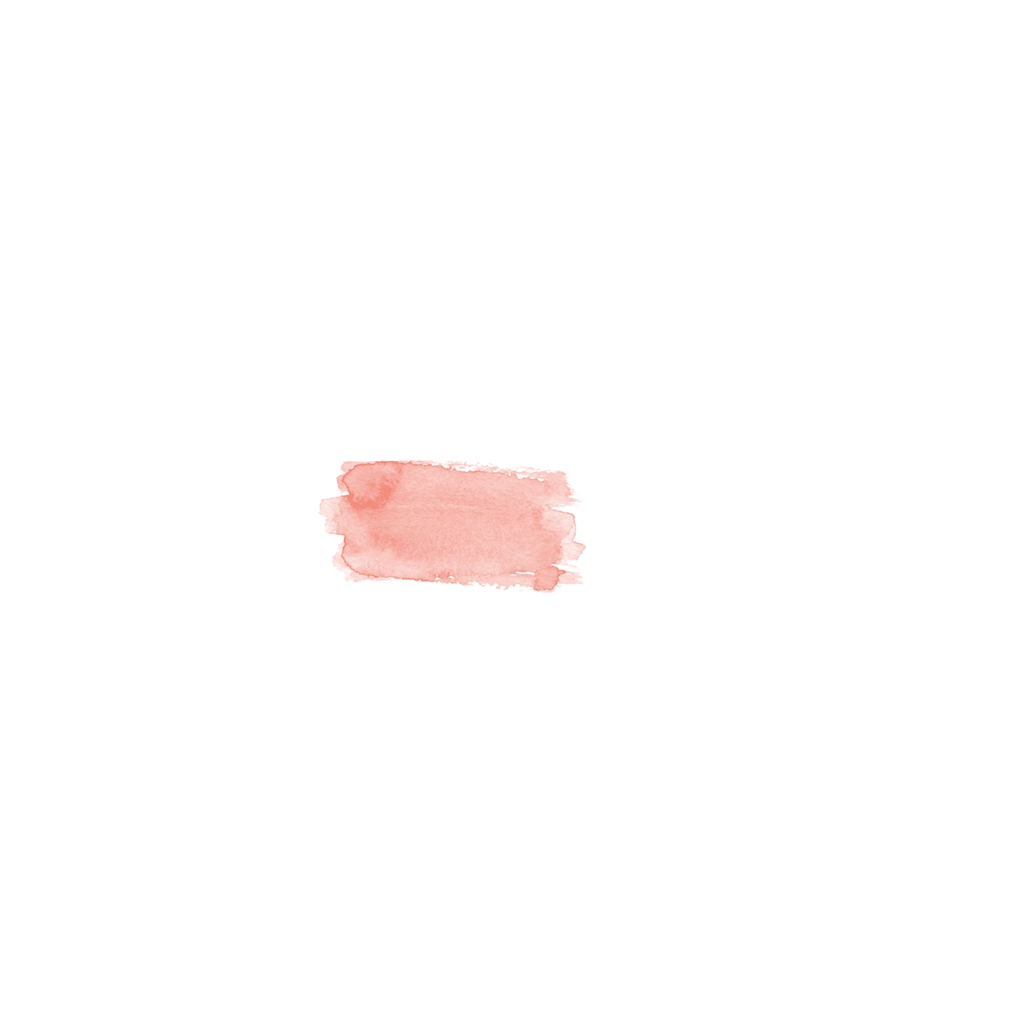
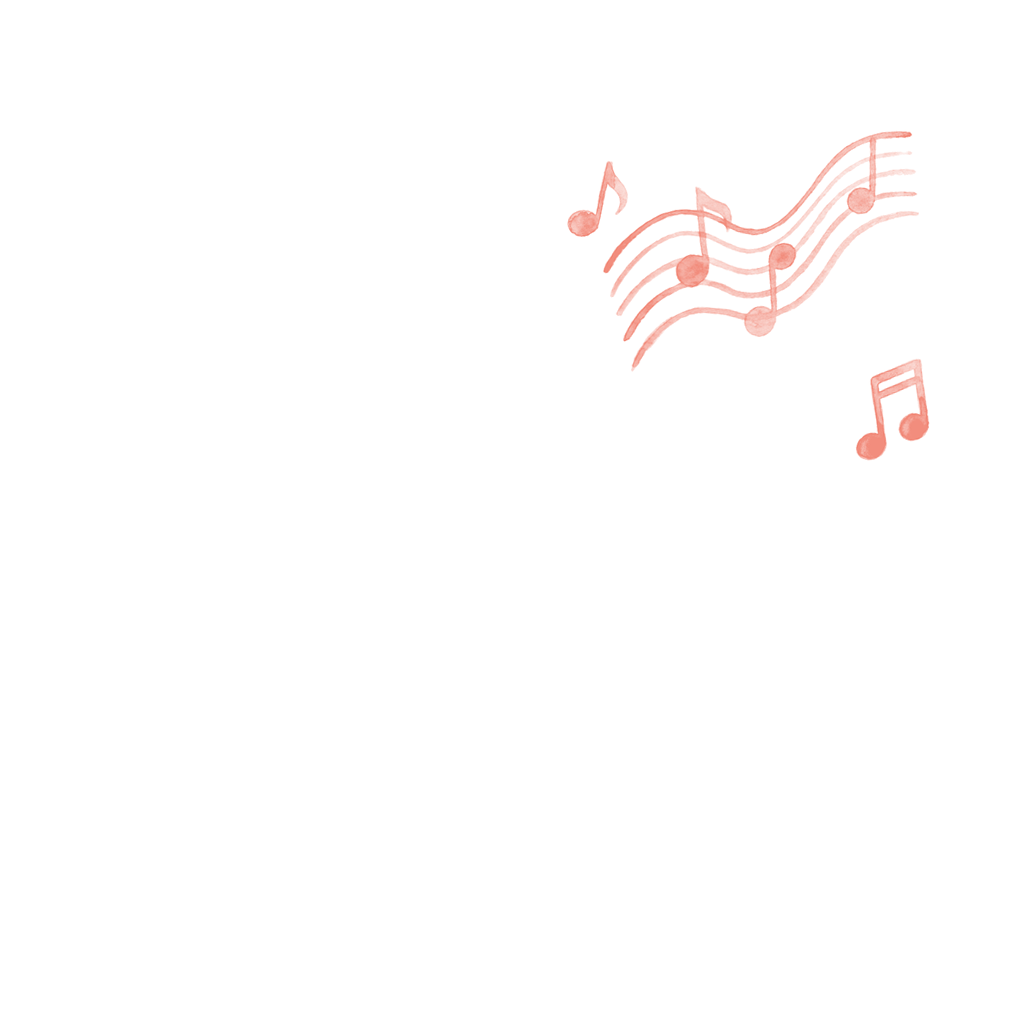
Coloring as staging: background, object or painted motifs
color.py now offers three moves: a background patch for depth, a patch behind
the one object that carries the idea, and painted motifs (music staff, notes,
star, heart, sparkle, dots) cut from a generated sheet. The rest of the
subject always stays paper. The style spec explains how to choose.

Changed region(s): [[0.5625, 0.125, 0.9062, 0.3438], [0.3125, 0.4375, 0.5938, 0.5938], [0.8438, 0.3438, 0.9062, 0.4688]]

diff --git a/scripts/color.py b/scripts/color.py
@@ -1,19 +1,27 @@
-"""Place real coral watercolor patches behind chosen regions of an ink drawing.
+"""Add real painted watercolor to an accepted ink drawing.
 
 usage:
   python3 -I scripts/color.py DIR --list
-      writes DIR/regions.png: every closed region of the drawing with a number
-  python3 -I scripts/color.py DIR --regions 6,7+8 [--patch wide] [--seed 1] [--close 9]
-      writes DIR/color-wash.png (the watercolor layer), DIR/version-color.jpg
-      (paper + watercolor + ink) and DIR/version-ink.jpg (paper + ink only)
+      writes DIR/regions.png: every closed region of the drawing, numbered
+  python3 -I scripts/color.py DIR [--background] [--regions 6,7+8] [--add "staff@700,260,330,-10;note@860,330,90"]
+      writes DIR/color-wash.png, DIR/version-color.jpg and DIR/version-ink.jpg
 
-DIR holds layer-ink.png (from layers.py). Regions joined by + get one patch
-together. The watercolor is never painted by code: a real painted patch from
-library/_washes (scripts/washes.py) is chosen by shape, scaled a little larger
-than the region, tilted and offset, and placed behind the ink. A region is a connected area of paper
-enclosed by ink; gaps narrower than --close (in half-size pixels) are closed
-first, because hand-drawn contours are often open.
+Three ways to color, chosen per drawing (references/style.md, section 8):
+  --background   one large painted patch behind the whole subject, for depth
+  --regions      a painted patch behind one object (regions joined by + share one)
+  --add          painted motifs that tell the action, kind@x,y,width[,degrees];
+                 kinds are the "kind" fields in library/_motifs/*.json
+
+The watercolor never crosses the rest of the subject: every part of the drawing
+other than the chosen regions stays paper, so people, coins or books in front
+read white, while the patch may overflow into the empty background. Motifs are
+placed on top of that rule, where you put them.
+
+Nothing here paints: every patch and motif is a real painted swatch from a
+generated sheet (scripts/washes.py). A region is a connected area of paper
+enclosed by ink, after closing gaps narrower than --close half-size pixels.
 """
+import glob
 import json
 import sys
 
@@ -22,60 +30,70 @@ from PIL import Image, ImageDraw, ImageFilter, ImageFont
 
 PAPER = (244, 242, 236)
 CORAL = (240, 128, 110)
+ROOT = __file__.rsplit("/scripts/", 1)[0]
 
 
 def opt(name, default=None):
-    if name in sys.argv:
-        return sys.argv[sys.argv.index(name) + 1]
-    return default
+    return sys.argv[sys.argv.index(name) + 1] if name in sys.argv else default
 
 
 def label(free):
     h, w = free.shape
     lab = np.zeros((h, w), np.int32)
     sizes = [0]
-    current = 0
+    n = 0
     for y0 in range(0, h, 2):
         for x0 in range(0, w, 2):
             if not free[y0, x0] or lab[y0, x0]:
                 continue
-            current += 1
+            n += 1
             stack = [(y0, x0)]
-            lab[y0, x0] = current
-            n = 0
+            lab[y0, x0] = n
+            count = 0
             while stack:
                 y, x = stack.pop()
-                n += 1
+                count += 1
                 for ny, nx in ((y + 1, x), (y - 1, x), (y, x + 1), (y, x - 1)):
                     if 0 <= ny < h and 0 <= nx < w and free[ny, nx] and not lab[ny, nx]:
-                        lab[ny, nx] = current
+                        lab[ny, nx] = n
                         stack.append((ny, nx))
-            sizes.append(n)
+            sizes.append(count)
     return lab, sizes
 
 
-def blur(a, r):
-    img = Image.fromarray((np.clip(a, 0, 1) * 255).astype(np.uint8))
-    return np.asarray(img.filter(ImageFilter.GaussianBlur(r))).astype(np.float32) / 255
+def grow(mask, size):
+    img = Image.fromarray((mask > 0).astype(np.uint8) * 255)
+    return np.asarray(img.filter(ImageFilter.MaxFilter(size | 1))) > 0
 
 
-def noise(shape, scale, rng):
-    h, w = shape
-    small = rng.random((max(2, h // scale), max(2, w // scale))).astype(np.float32)
-    img = Image.fromarray((small * 255).astype(np.uint8)).resize((w, h), Image.BICUBIC)
+def up(mask, size):
+    img = Image.fromarray((mask > 0).astype(np.uint8) * 255).resize(size, Image.BILINEAR)
     return np.asarray(img).astype(np.float32) / 255
 
 
-def regions_of(ink_alpha, close):
-    small = ink_alpha[::2, ::2]
-    if close > 1:
-        img = Image.fromarray((np.clip(small, 0, 1) * 255).astype(np.uint8))
-        small = np.asarray(img.filter(ImageFilter.MaxFilter(close | 1))).astype(np.float32) / 255
-    free = small < 0.25
-    lab, sizes = label(free)
-    border = set(np.unique(np.concatenate([lab[0], lab[-1], lab[:, 0], lab[:, -1]])))
-    keep = [i for i in range(1, len(sizes)) if i not in border and sizes[i] > 150]
-    return lab, keep
+def load(kind_dir):
+    out = []
+    for f in sorted(glob.glob(f"{ROOT}/library/{kind_dir}/patch-*.png")):
+        out.append((f, json.load(open(f[:-4] + ".json"))))
+    return out
+
+
+def stamp(canvas, path, cx, cy, tw, th, degrees):
+    patch = Image.open(path).resize((max(8, int(tw)), max(8, int(th))), Image.LANCZOS)
+    patch = patch.rotate(degrees, expand=True, resample=Image.BICUBIC)
+    pa = np.asarray(patch).astype(np.float32)[..., 3] / 255
+    H, W = canvas.shape
+    px, py = int(cx - pa.shape[1] / 2), int(cy - pa.shape[0] / 2)
+    sx, sy = max(0, -px), max(0, -py)
+    x0, y0, x1, y1 = max(0, px), max(0, py), min(W, px + pa.shape[1]), min(H, py + pa.shape[0])
+    if x1 > x0 and y1 > y0:
+        piece = pa[sy:sy + y1 - y0, sx:sx + x1 - x0]
+        canvas[y0:y1, x0:x1] = 1 - (1 - canvas[y0:y1, x0:x1]) * (1 - piece)
+
+
+def pick(pool, aspect, rng):
+    pool = sorted(pool, key=lambda p: abs(np.log(p[1]["aspect"] / aspect)))
+    return pool[min(len(pool) - 1, int(rng.integers(0, 2)))]
 
 
 def main():
@@ -84,18 +102,23 @@ def main():
         sys.exit(2)
     d = sys.argv[1].rstrip("/")
     ink_img = Image.open(f"{d}/layer-ink.png")
+    W, H = ink_img.size
     ink = np.asarray(ink_img).astype(np.float32)[..., 3] / 255
     close = int(opt("--close", "9"))
-    lab, keep = regions_of(ink, close)
-    grow = close
+    small = ink[::2, ::2]
+    closed = grow(small > 0.25, close) if close > 1 else small > 0.25
+    lab, sizes = label(~closed)
+    border = set(np.unique(np.concatenate([lab[0], lab[-1], lab[:, 0], lab[:, -1]]))) - {0}
+    keep = [i for i in range(1, len(sizes)) if i not in border and sizes[i] > 150]
+
     if "--list" in sys.argv:
-        base = Image.new("RGB", ink_img.size, PAPER)
+        base = Image.new("RGB", (W, H), PAPER)
         base.paste(ink_img, (0, 0), ink_img)
         tint = np.zeros(lab.shape + (4,), np.uint8)
         rng = np.random.default_rng(3)
         for i in keep:
             tint[lab == i] = (*rng.integers(80, 230, 3), 90)
-        over = Image.fromarray(tint, "RGBA").resize(ink_img.size, Image.NEAREST)
+        over = Image.fromarray(tint, "RGBA").resize((W, H), Image.NEAREST)
         base.paste(over, (0, 0), over)
         draw = ImageDraw.Draw(base)
         try:
@@ -104,68 +127,75 @@ def main():
             font = ImageFont.load_default()
         for i in keep:
             ys, xs = np.nonzero(lab == i)
-            cy, cx = int(np.median(ys)) * 2, int(np.median(xs)) * 2
-            draw.text((cx - 10, cy - 14), str(i), fill=(200, 0, 0), font=font)
+            draw.text((int(np.median(xs)) * 2 - 10, int(np.median(ys)) * 2 - 14), str(i), fill=(200, 0, 0), font=font)
         base.save(f"{d}/regions.png")
         print(f"{d}/regions.png: {len(keep)} regions")
         return
-    groups = [[int(v) for v in g.split("+")] for g in opt("--regions", "").split(",") if g]
-    chosen = [i for g in groups for i in g]
-    forced = opt("--patch")
+
     rng = np.random.default_rng(int(opt("--seed", "1")))
-    root = __file__.rsplit("/scripts/", 1)[0]
-    import glob
-    patches = []
-    for f in sorted(glob.glob(f"{root}/library/_washes/patch-*.png")):
-        meta = json.load(open(f[:-4] + ".json"))
-        patches.append((f, meta))
-    if not patches:
-        print("no watercolor patches in library/_washes: run scripts/washes.py on a generated swatch sheet first")
-        sys.exit(1)
-    W, H = ink_img.size
-    wash = np.zeros((H, W), np.float32)
+    washes = [p for p in load("_washes") if p[1].get("kind") not in ("heart", "splash")]
+    motifs = load("_motifs")
+    subject = ~np.isin(lab, list(border))
+    alpha = np.zeros((H, W), np.float32)
+    allowed = np.zeros(lab.shape, bool)
+    notes = []
+
+    if "--background" in sys.argv:
+        ys, xs = np.nonzero(subject)
+        x0, x1, y0, y1 = xs.min() * 2, xs.max() * 2, ys.min() * 2, ys.max() * 2
+        bw, bh = (x1 - x0) * 0.95, (y1 - y0) * 0.8
+        f, meta = pick(washes, bw / bh, rng)
+        cx = (x0 + x1) / 2 + (rng.random() - 0.5) * 0.1 * bw
+        cy = (y0 + y1) / 2 - 0.04 * bh
+        stamp(alpha, f, cx, cy, bw, bh, float((rng.random() - 0.5) * 8))
+        notes.append(f"background: {meta['kind']} patch")
+
+    groups = [[int(v) for v in g.split("+")] for g in (opt("--regions") or "").split(",") if g]
     for g in groups:
-        ys, xs = np.nonzero(np.isin(lab, g))
+        region = np.isin(lab, g)
+        allowed |= grow(region, close)
+        ys, xs = np.nonzero(region)
         x0, x1, y0, y1 = xs.min() * 2, xs.max() * 2, ys.min() * 2, ys.max() * 2
         bw, bh = x1 - x0, y1 - y0
-        aspect = bw / max(1, bh)
-        pool = [p for p in patches if p[1].get("kind") not in ("heart", "splash")]
-        if forced:
-            pool = [p for p in patches if p[1].get("kind") == forced or p[0].endswith(f"patch-{forced.zfill(2)}.png")]
-        pool.sort(key=lambda p: abs(np.log(p[1]["aspect"] / aspect)))
-        f, meta = pool[min(len(pool) - 1, int(rng.integers(0, 2)))]
+        f, meta = pick(washes, bw / max(1, bh), rng)
         over = 1.12 + rng.random() * 0.12
-        tw, th = int(bw * over), int(bh * over)
-        patch = Image.open(f).resize((max(8, tw), max(8, th)), Image.LANCZOS).rotate(float((rng.random() - 0.5) * 10), expand=True, resample=Image.BICUBIC)
-        pa = np.asarray(patch).astype(np.float32)[..., 3] / 255
-        cx = (x0 + x1) / 2 + (rng.random() - 0.5) * 0.12 * bw
-        cy = (y0 + y1) / 2 + (rng.random() - 0.5) * 0.12 * bh
-        px, py = int(cx - pa.shape[1] / 2), int(cy - pa.shape[0] / 2)
-        sx0, sy0 = max(0, -px), max(0, -py)
-        dx0, dy0 = max(0, px), max(0, py)
-        dx1, dy1 = min(W, px + pa.shape[1]), min(H, py + pa.shape[0])
-        if dx1 <= dx0 or dy1 <= dy0:
-            continue
-        piece = pa[sy0:sy0 + dy1 - dy0, sx0:sx0 + dx1 - dx0]
-        region = wash[dy0:dy1, dx0:dx1]
-        wash[dy0:dy1, dx0:dx1] = 1 - (1 - region) * (1 - piece)
-        print(f"regions {g}: {meta.get('kind')} patch, {tw}x{th}")
-    alpha = np.clip(wash, 0, 1)
-    h, w = alpha.shape
-    out = np.zeros((h, w, 4), np.uint8)
+        cx = (x0 + x1) / 2 + (rng.random() - 0.5) * 0.1 * bw
+        cy = (y0 + y1) / 2 + (rng.random() - 0.5) * 0.1 * bh
+        stamp(alpha, f, cx, cy, bw * over, bh * over, float((rng.random() - 0.5) * 10))
+        notes.append(f"regions {g}: {meta['kind']} patch")
+
+    knock = up(subject & ~allowed, (W, H))
+    alpha *= 1 - knock
+
+    for spec in [s for s in (opt("--add") or "").split(";") if s.strip()]:
+        kind, rest = spec.strip().split("@")
+        vals = [float(v) for v in rest.split(",")]
+        x, y, w = vals[:3]
+        deg = vals[3] if len(vals) > 3 else 0
+        match = [p for p in motifs if p[1].get("kind") == kind]
+        if not match:
+            print(f"no motif of kind {kind}; kinds: {sorted({p[1].get('kind') for p in motifs})}")
+            sys.exit(1)
+        f, meta = match[0]
+        stamp(alpha, f, x, y, w, w / meta["aspect"], deg)
+        notes.append(f"motif {kind} at {int(x)},{int(y)}")
+
+    alpha = np.clip(alpha, 0, 1)
+    out = np.zeros((H, W, 4), np.uint8)
     out[..., :3] = CORAL
     out[..., 3] = (alpha * 255).astype(np.uint8)
     wash = Image.fromarray(out, "RGBA")
     wash.save(f"{d}/color-wash.png", optimize=True)
     ys, xs = np.nonzero(alpha > 0.2)
+    bbox = [int(xs.min()), int(ys.min()), int(xs.max()), int(ys.max())] if len(xs) else None
     with open(f"{d}/color-wash.json", "w") as f:
-        json.dump({"size": [w, h], "bbox": [int(xs.min()), int(ys.min()), int(xs.max()), int(ys.max())], "regions": groups}, f)
+        json.dump({"size": [W, H], "bbox": bbox, "made_with": sys.argv[2:]}, f)
     for name, layers in (("version-color.jpg", [wash, ink_img]), ("version-ink.jpg", [ink_img])):
-        base = Image.new("RGB", ink_img.size, PAPER)
+        base = Image.new("RGB", (W, H), PAPER)
         for layer in layers:
             base.paste(layer, (0, 0), layer)
         base.save(f"{d}/{name}", quality=92)
-    print(f"{d}: color version from regions {chosen}")
+    print(f"{d}: " + "; ".join(notes))
 
 
 main()

diff --git a/scripts/washes.py b/scripts/washes.py
@@ -1,6 +1,9 @@
 """Cut a generated sheet of watercolor swatches into separate wash patches.
 
-usage: python3 -I scripts/washes.py library/_washes/sheet1.jpg library/_washes/
+usage: python3 -I scripts/washes.py SHEET.jpg OUTDIR/ [--merge 15] [--min 3000]
+
+--merge joins strokes closer than that many pixels into one patch (use about
+31 for motifs such as a sparkle made of separate rays).
 
 Each swatch becomes patch-NN.png: the coral color with the painted texture kept
 in the alpha channel (pigment density from the green channel), cropped to the
@@ -21,12 +24,14 @@ def main():
         print(__doc__)
         sys.exit(2)
     src, out = sys.argv[1], sys.argv[2].rstrip("/")
+    merge = int(sys.argv[sys.argv.index("--merge") + 1]) if "--merge" in sys.argv else 15
+    least = int(sys.argv[sys.argv.index("--min") + 1]) if "--min" in sys.argv else 3000
     a = np.asarray(Image.open(src).convert("RGB")).astype(np.float32)
     g, r = a[..., 1], a[..., 0]
     paper = np.percentile(g, 90)
     alpha = np.clip((paper - g) / (paper - np.percentile(g, 1)), 0, 1)
     alpha = np.clip((alpha - 0.1) / 0.9, 0, 1) * (r - g > 25)
-    blob = np.asarray(Image.fromarray((alpha > 0.12).astype(np.uint8) * 255).filter(ImageFilter.MaxFilter(15))) > 0
+    blob = np.asarray(Image.fromarray((alpha > 0.12).astype(np.uint8) * 255).filter(ImageFilter.MaxFilter(merge | 1))) > 0
     h, w = blob.shape
     lab = np.zeros((h, w), np.int32)
     n = 0
@@ -45,7 +50,7 @@ def main():
     k = 0
     for i in range(1, n + 1):
         ys, xs = np.nonzero(lab == i)
-        if len(ys) < 3000:
+        if len(ys) < least:
             continue
         y0, y1, x0, x1 = ys.min(), ys.max() + 1, xs.min(), xs.max() + 1
         part = alpha[y0:y1, x0:x1] * (lab[y0:y1, x0:x1] == i)

diff --git a/SKILL.md b/SKILL.md
@@ -23,7 +23,11 @@ This skill makes drawings that look drawn by hand with a felt marker, then anima
 3. **Generate.** `node scripts/generate.mjs --subject "..." --out work/drawing.jpg` for one drawing, `--kind poses --poses 4` for a pose sheet, `--wash` when the idea uses coral watercolor. The style block from `references/style.md` is added for you; the whole prompt must stay under 1000 characters (`--dry` prints it). Describe what to draw, never which reference to copy.
 4. **Judge the drawing before anything else, with a fresh judge.** Never judge your own drawing yourself: start a separate agent that has none of this conversation, give it `references/judge.md` and the image path, and ask for the JSON verdict only. Any `false` answer: generate again, feeding the judge's reasons into the new prompt. Never animate a drawing that fails. When several drawings are needed, judge them in parallel.
 5. **Make layers.** `python3 -I scripts/layers.py work/drawing.jpg work/name` writes `name-ink.png` and `name-wash.png`. `python3 -I scripts/poses.py work/sheet.jpg work/pose` writes `pose1.png` and the next ones, aligned on the feet. Check that the number of poses found matches the sheet.
-5b. **Make the two versions of an accepted drawing.** Every accepted drawing exists without color (ink only) and with color. Color is always the coral watercolor, really painted: never let code compute a tint, it reads as a flat fill. The painted patches live in `library/_washes` (cut from a generated swatch sheet by `scripts/washes.py`). If the generation already holds watercolor, that is the color version. Otherwise `python3 -I scripts/color.py DIR --list` numbers the closed regions in `DIR/regions.png`; pick the regions that carry the idea (the piggy bank, the guitar body, two books of a stack), then `python3 -I scripts/color.py DIR --regions 6,7+8` places a real painted patch behind each region (or group joined by +) and writes `version-ink.jpg`, `version-color.jpg` and the `color-wash.png` layer. Leave people uncolored unless they are the idea.
+5b. **Make the two versions of an accepted drawing.** Every accepted drawing exists without color (ink only) and with color. Color is always the coral watercolor, really painted: never let code compute a tint, it reads as a flat fill. If the generation already holds watercolor, that is the color version. Otherwise choose the staging move first (`references/style.md`, section 8): a background patch for depth, the one object that carries the idea, or painted motifs that tell the action. Then:
+   - `python3 -I scripts/color.py DIR --background` puts a large painted patch behind the subject;
+   - `python3 -I scripts/color.py DIR --list` numbers the closed regions in `DIR/regions.png`, and `--regions 6` puts a patch behind that object;
+   - `--add "staff@760,250,330,-8;note@600,200,70"` places painted motifs (kind@x,y,width,degrees; kinds in `library/_motifs`).
+   The rest of the subject always stays paper. Read `version-color.jpg` and ask whether the color helps the idea; if not, choose another move.
 6. **Write the scene.** `scene.json` next to the images (`references/motion.md`, section 3). Start from the closest example. Put origins where things really pivot: the feet for a character, the centre of a heart.
 7. **Build and check.** `node scripts/build.mjs work/scene.json --out work/name.html`, then `node scripts/check.mjs work/name.html --times 0,600,...`. The check must print `0 problems`. Read the contact sheet PNG it writes: does each frame read, does the story show, does anything overlap badly (a coral element on a coral area, a heart on a face)? Fix and repeat.
 8. **Deliver** the HTML page. To preview it, never open it in the person's default browser, which may be in use; ask, or use another browser.

diff --git a/references/style.md b/references/style.md
@@ -64,6 +64,12 @@ No other color, no gradient, no shadow, no texture on ink or paper.
 - **Watercolor is always really painted, never computed.** It comes from the generator: either inside the generated drawing, or as a real painted patch from `library/_washes` placed behind the ink by `scripts/color.py`. A tint computed by code reads as a flat fill, even with noise and grain (rejected 2026-11-07: the piggy bank, guitar and books looked like three flat fills next to the painted door).
 - What makes it watercolor: visible brush strokes, uneven pigment, darker pooling at the rim, light streaks and gaps, paper grain, and a shape that overflows the object instead of filling it.
 - **Every accepted drawing has two versions**: ink only, and with watercolor. Color is always this watercolor.
+- **Coloring is a staging choice, not a fill.** Decide per drawing which of three moves helps the idea, then use one, sometimes two:
+  1. **Background**: one large painted patch behind the whole subject gives depth. The subject stays paper on top of it (the runner in the door, the reader on his books).
+  2. **Object**: a patch behind the one object that carries the idea (the piggy bank). Every other part of the subject in front of it stays paper (the coins, the person sitting on it).
+  3. **Added motif**: painted elements that tell the action, placed around the subject (music notes and a wavy staff around a playing guitar, sparkles around a success, a heart above a gift).
+- Ask "what would an illustrator add to make the idea read?" before choosing. Coloring a small part that carries no meaning (the guitar body, two books of a stack) adds nothing (rejected 2026-11-07).
+- The watercolor never crosses the rest of the subject: only the chosen object, the empty background and placed motifs take color.
 - **A watercolor element never sits on another watercolor area**: coral on coral disappears (rejected: a coral heart rising over a coral background).
 
 ## 9. Composition
